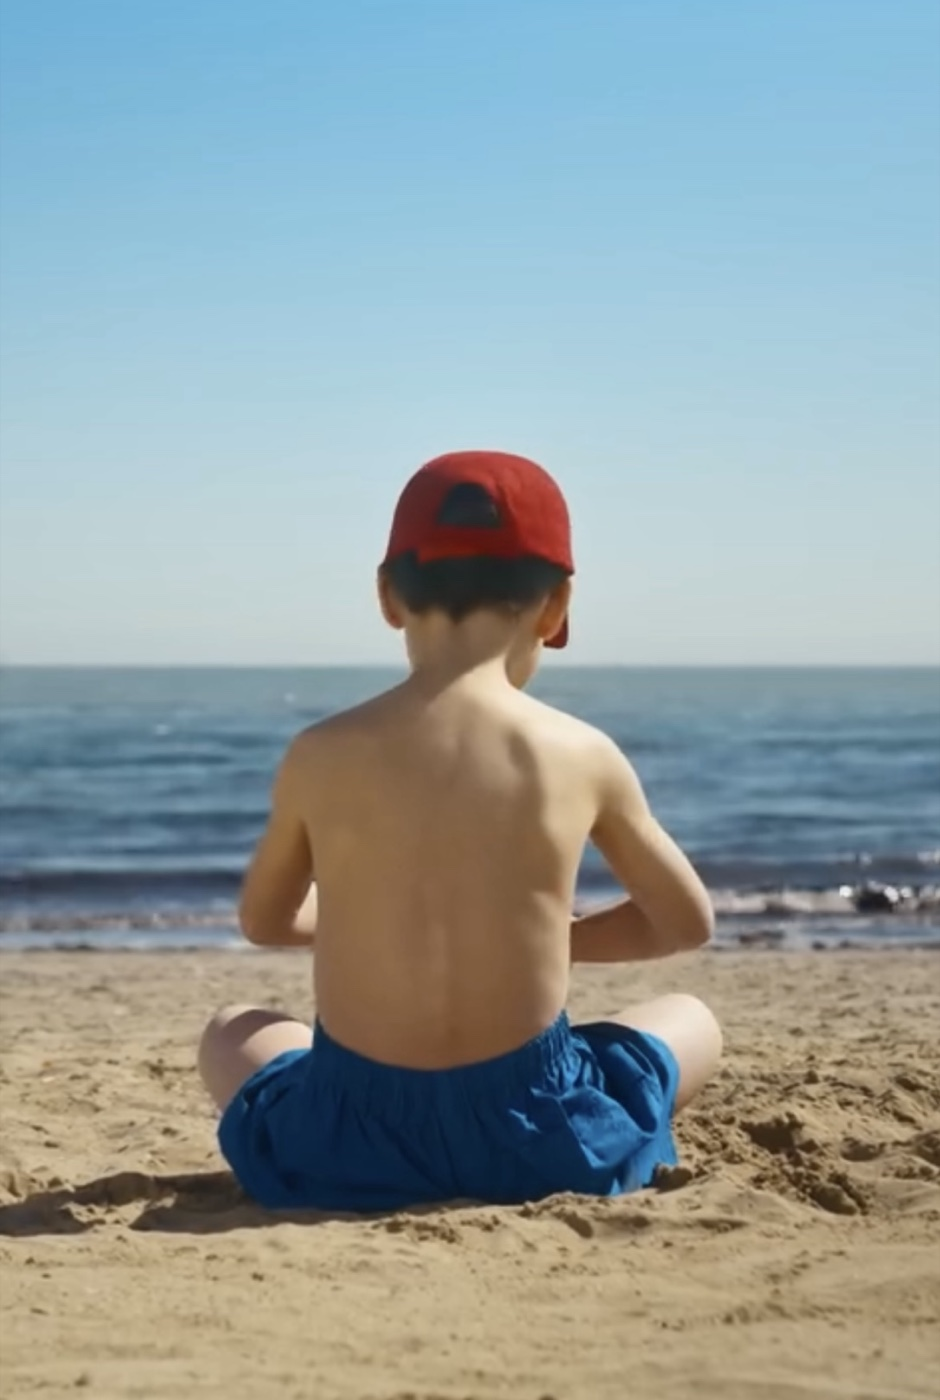
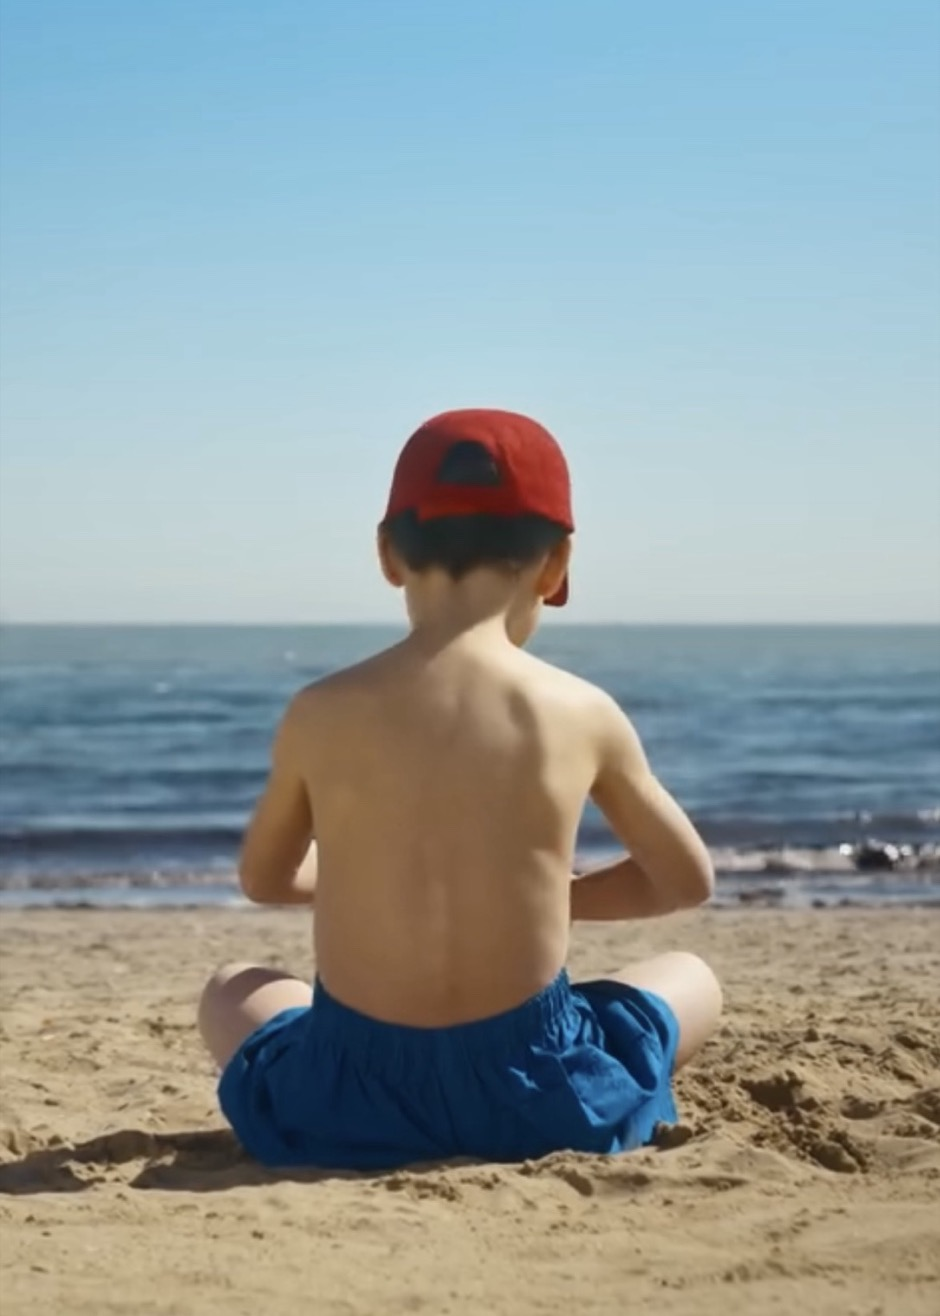
Add files via upload

diff --git a/style.css b/style.css
@@ -343,3 +343,7 @@ header { background: var(--bg); backdrop-filter: none; -webkit-backdrop-filter: 
 .bio-text .btn { margin-top: 28px; }
 .reel { width: 100%; aspect-ratio: auto; height: clamp(200px, 38vw, 480px); }
 .project .btn.solid { color: var(--bg); }
+/* long category name stays on one line; covers always fit the screen height */
+#cat-comm .cat-top h2 { font-size: clamp(2.8rem, 7.2vw, 7.5rem); }
+.cat { --ph: min(46svh, 500px, calc(100svh - 370px)); }
+@media (max-width: 700px) { .cat { --ph: min(46svh, 400px, calc(100svh - 360px)); } #cat-comm .cat-top h2 { font-size: clamp(2.8rem, 14vw, 4.6rem); } }

diff --git a/index.html b/index.html
@@ -185,7 +185,7 @@
           </div>
           <div class="track">
           <a class="tcard" href="visit-emilia-romagna.html">
-            <div class="ph"><img src="visit-emilia-romagna-poster.jpg" alt="Still from the Visit Emilia Romagna commercial" loading="lazy"></div>
+            <div class="ph"><img src="visit-emilia-romagna-poster.jpg?v=2" alt="Still from the Visit Emilia Romagna commercial" loading="lazy"></div>
             <div class="cap"><h3>Visit Emilia Romagna</h3><span class="yr">2026</span></div>
             <p class="meta">Tourism commercial · Editor</p>
           </a>

diff --git a/visit-emilia-romagna.html b/visit-emilia-romagna.html
@@ -23,7 +23,7 @@
 
     <section class="project">
       <div class="poster">
-        <img src="visit-emilia-romagna-poster.jpg" alt="Still from the Visit Emilia Romagna commercial: a child with a red cap sitting on the beach, facing the sea">
+        <img src="visit-emilia-romagna-poster.jpg?v=2" alt="Still from the Visit Emilia Romagna commercial: a child with a red cap sitting on the beach, facing the sea">
       </div>
 
       <div>
